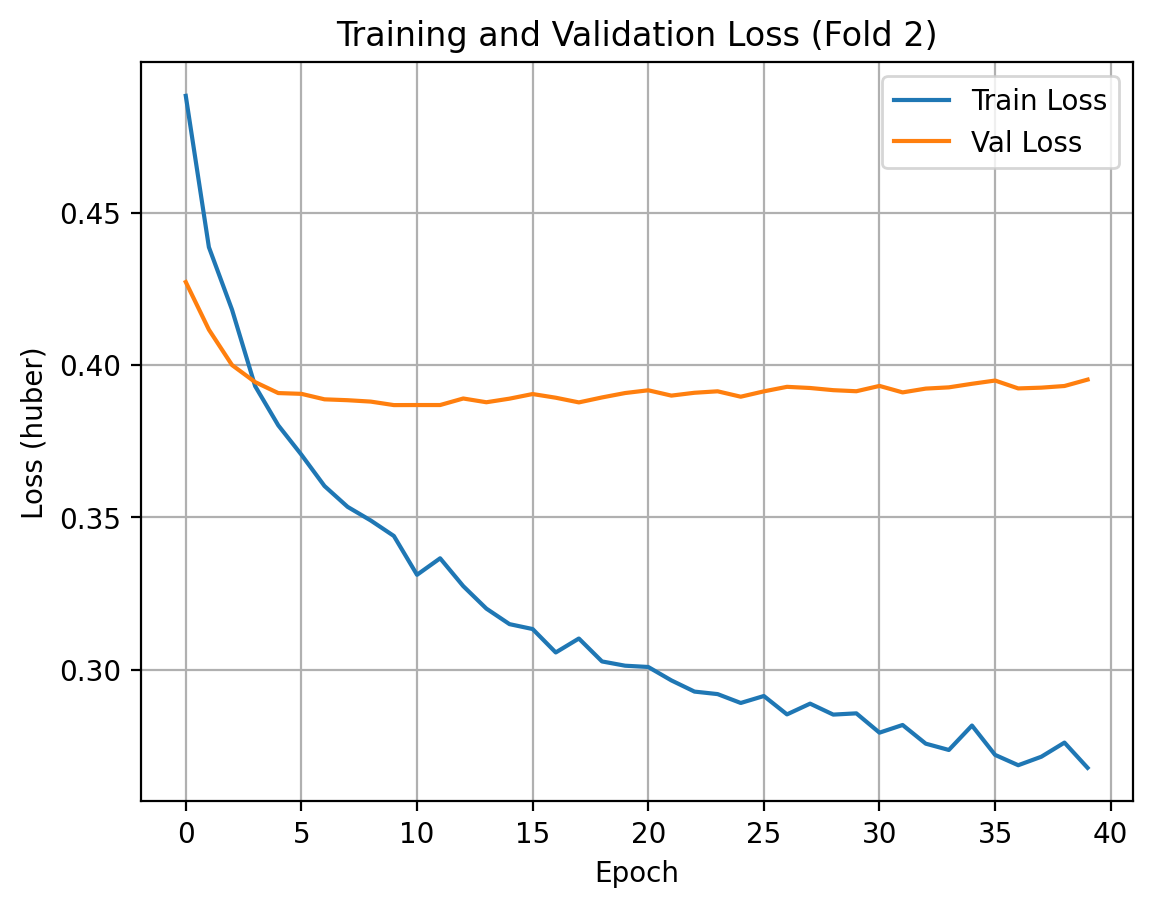
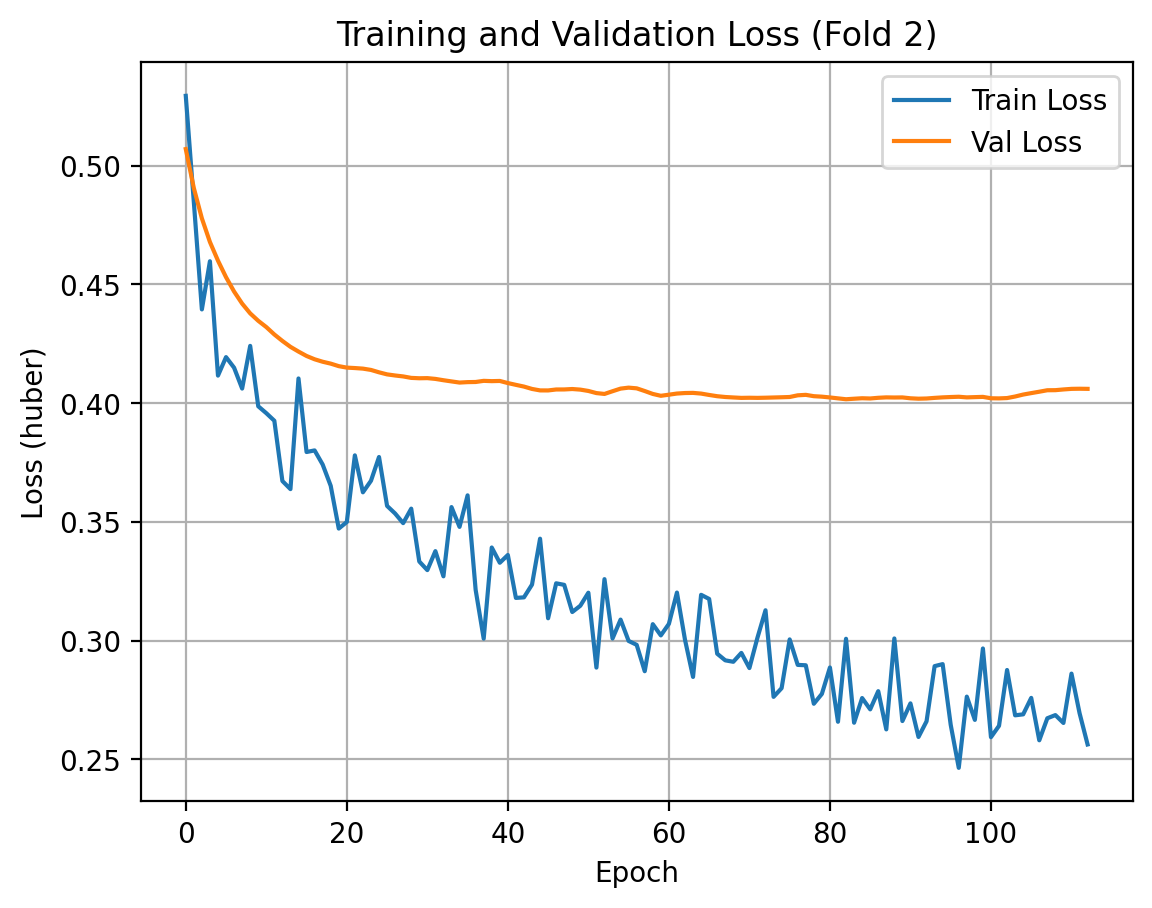
Add ESM attention pooling option and update data handling
Introduced 'esm_attention' as a new pooling method in both PafA_linear_IG.py and train_and_eval.py, enabling the use of ESMAttention1d for model construction. Also updated data handling in PafA_linear_IG.py to use all embeddings directly instead of difference embeddings. Updated result plots to reflect these changes.

diff --git a/scripts/PafA_linear_IG.py b/scripts/PafA_linear_IG.py
@@ -12,14 +12,11 @@ sys.path.insert(0, os.path.abspath(os.path.join(os.path.dirname(__file__), '..')
 
 from pathlib import Path
 
-import esm
 import matplotlib.pyplot as plt
 import numpy as np
 import pandas as pd
 import seaborn as sns
 import torch
-import torch.nn as nn
-import torch.optim as optim
 from sklearn.model_selection import KFold
 
 from src.erbc_analysis.embedding import get_embeddings
@@ -52,7 +49,7 @@ y_raw = df[col].values.astype(np.float32)
 
 # Config: select ESM layer and pooling method
 ESM_LAYER = 33  # Change this to try other layers
-POOLING_METHOD = 'linear'  # Options: 'mean', 'attention', 'conv_attention', 'linear'
+POOLING_METHOD = 'linear'  # Options: 'mean', 'attention', 'conv_attention', 'linear', 'esm_attention'
 LOSS_TYPE = 'huber'  # Options: 'mse', 'mae', 'huber', 'quantile', 'combined'
 
 # Hyperparameters (global scope)
@@ -122,7 +119,7 @@ baseline = wt_reps
 
 # Compute difference embeddings: X_variant - X_WT
 all_reps_diff = all_reps - wt_reps[0]  # (N, L, D)
-all_reps_combined = all_reps_diff  # (N, L, D)
+all_reps_combined = all_reps #all_reps_diff  # (N, L, D)
 
 # 3. Train-test split, preserving original indices
 

diff --git a/src/erbc_analysis/train_and_eval.py b/src/erbc_analysis/train_and_eval.py
@@ -11,7 +11,7 @@ from tqdm import trange
 
 from src.erbc_analysis.data_processing import CustomDataset, batch_pad_and_normalize
 from src.erbc_analysis.loss import combined_loss, huber_loss, mae_loss, mse_loss, quantile_loss
-from src.erbc_analysis.models import AttentionConvPoolingModel, LinearRegressionModel, MeanPoolingModel
+from src.erbc_analysis.models import AttentionConvPoolingModel, LinearRegressionModel, MeanPoolingModel, ESMAttention1d
 
 
 def train_and_evaluate(
@@ -70,6 +70,8 @@ def train_and_evaluate(
             final_activation=final_activation,
             target_min=target_min, target_max=target_max
         )
+    elif POOLING_METHOD == 'esm_attention':
+        model = ESMAttention1d(max_length=L, d_embedding=input_dim_combined)
     else:
         raise ValueError(f"Unknown pooling method: {POOLING_METHOD}")
     model = model.to(device)
